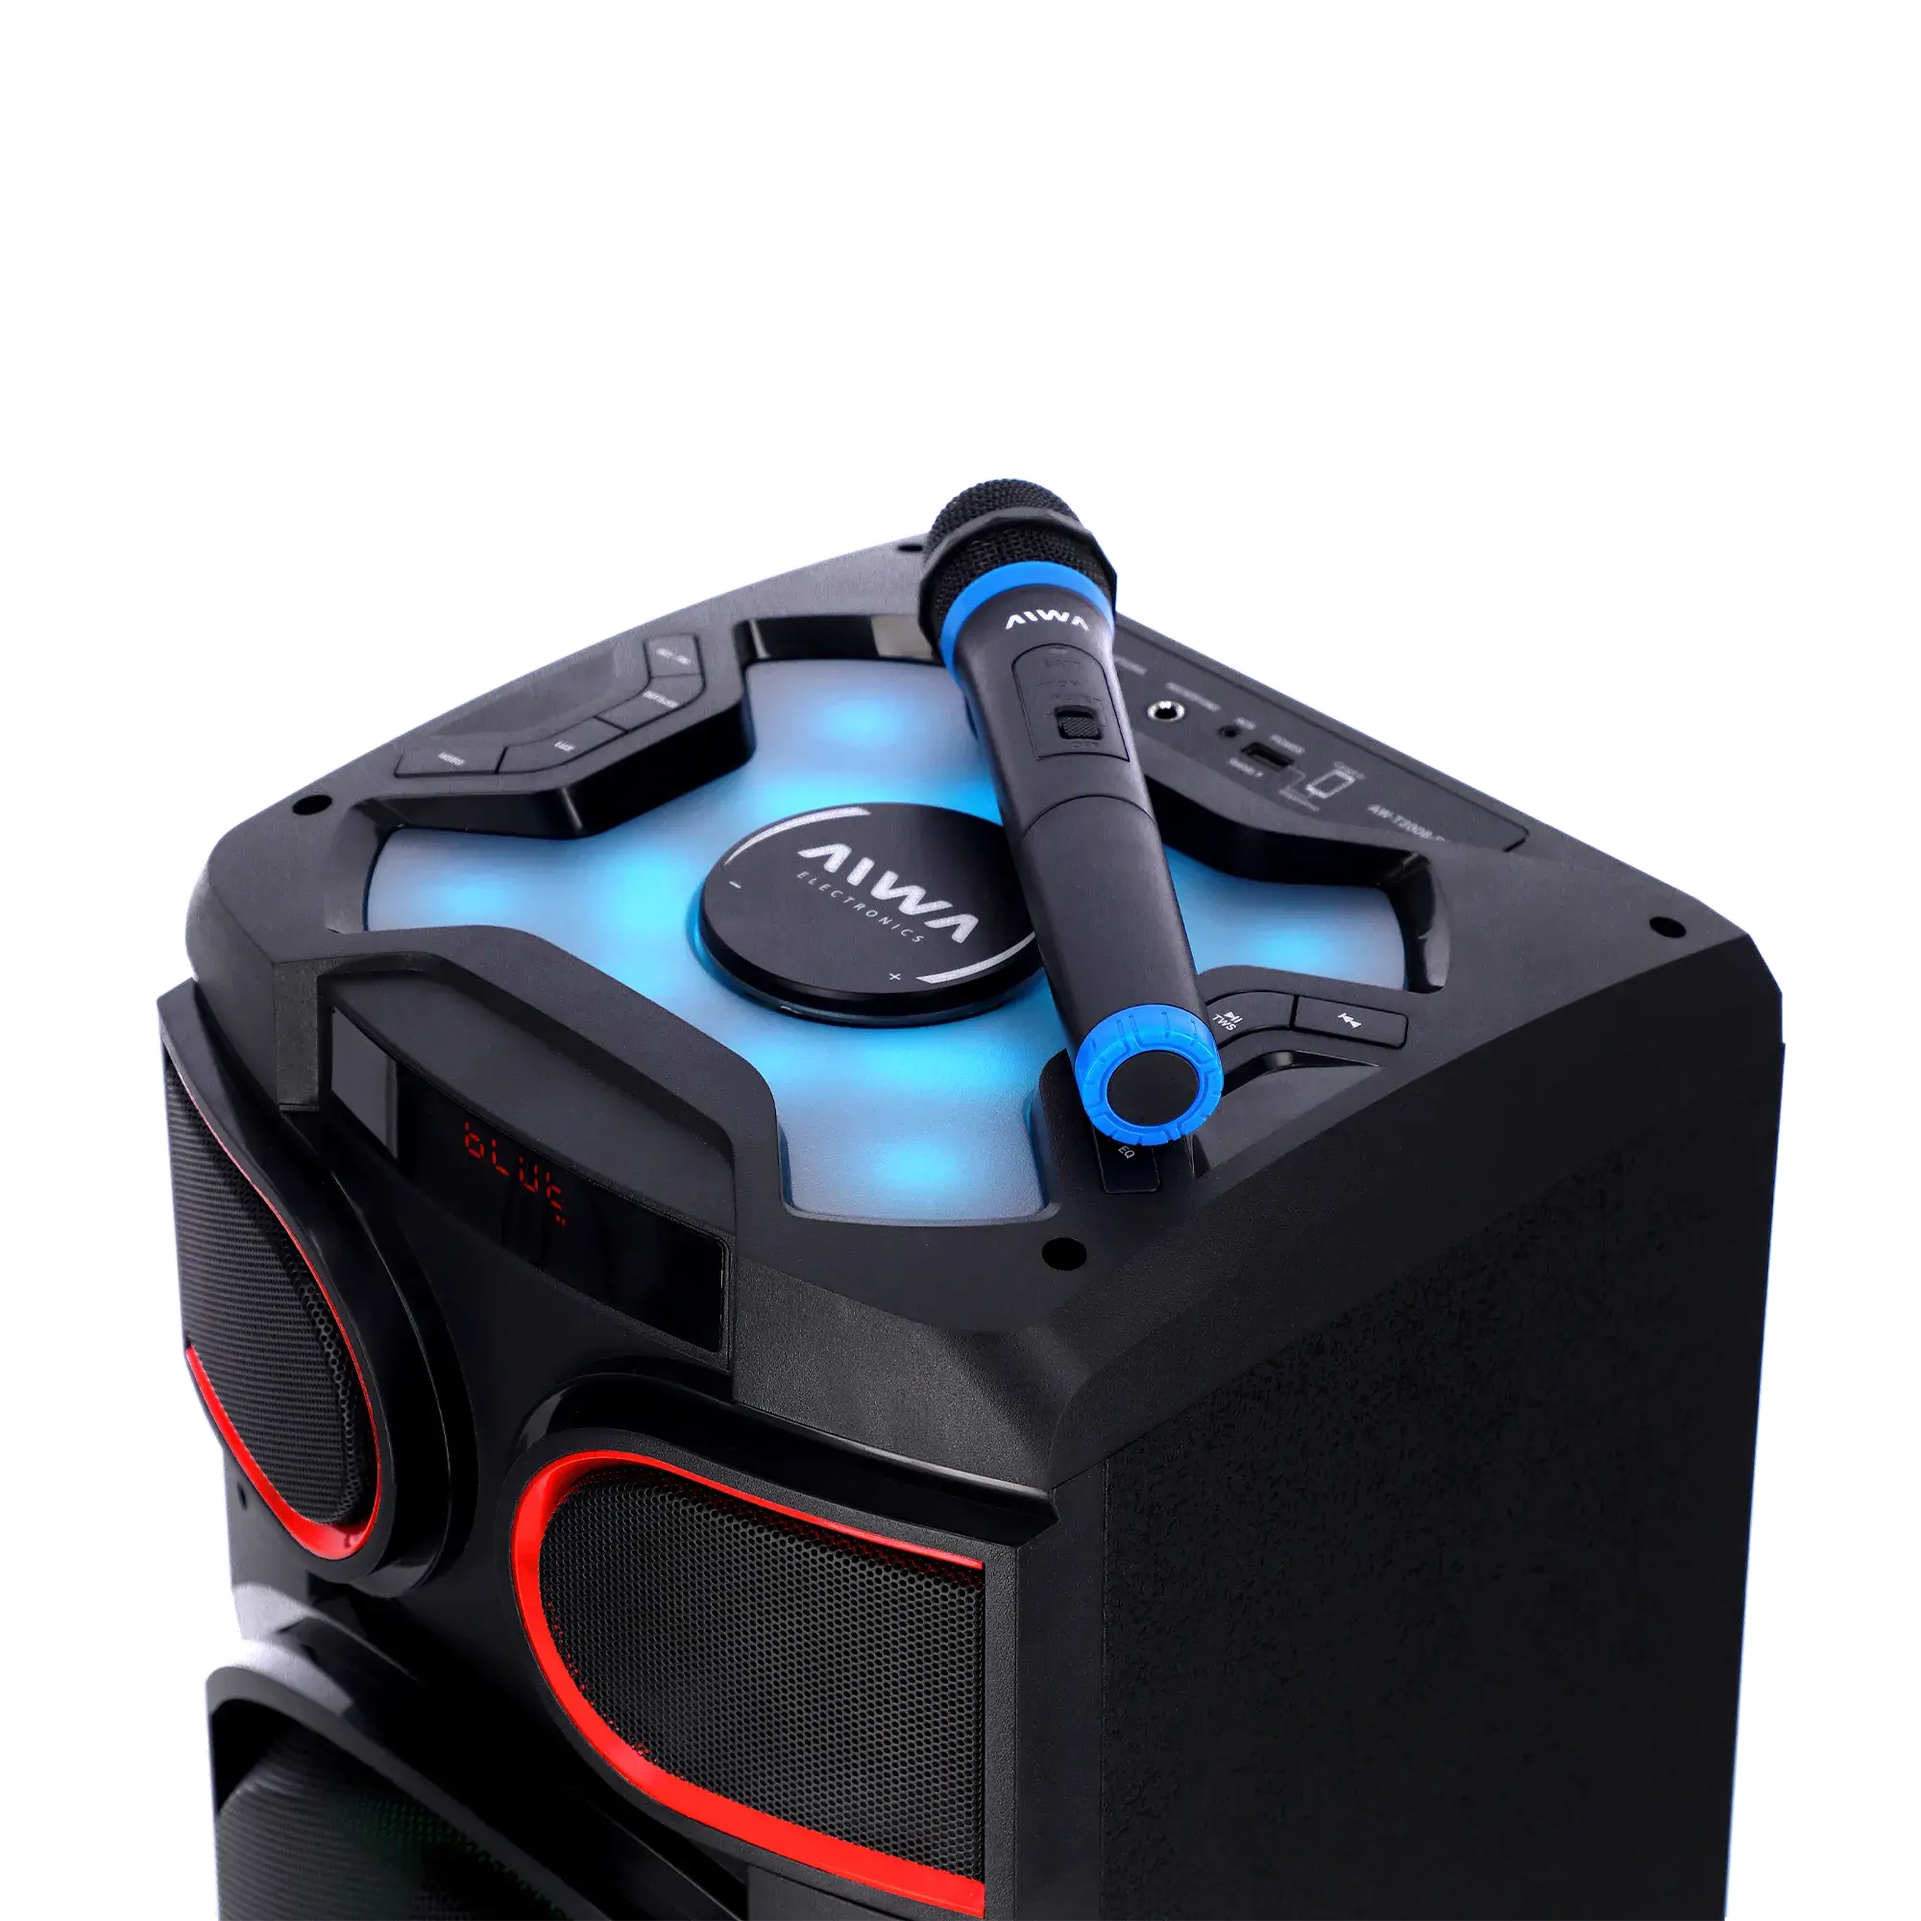
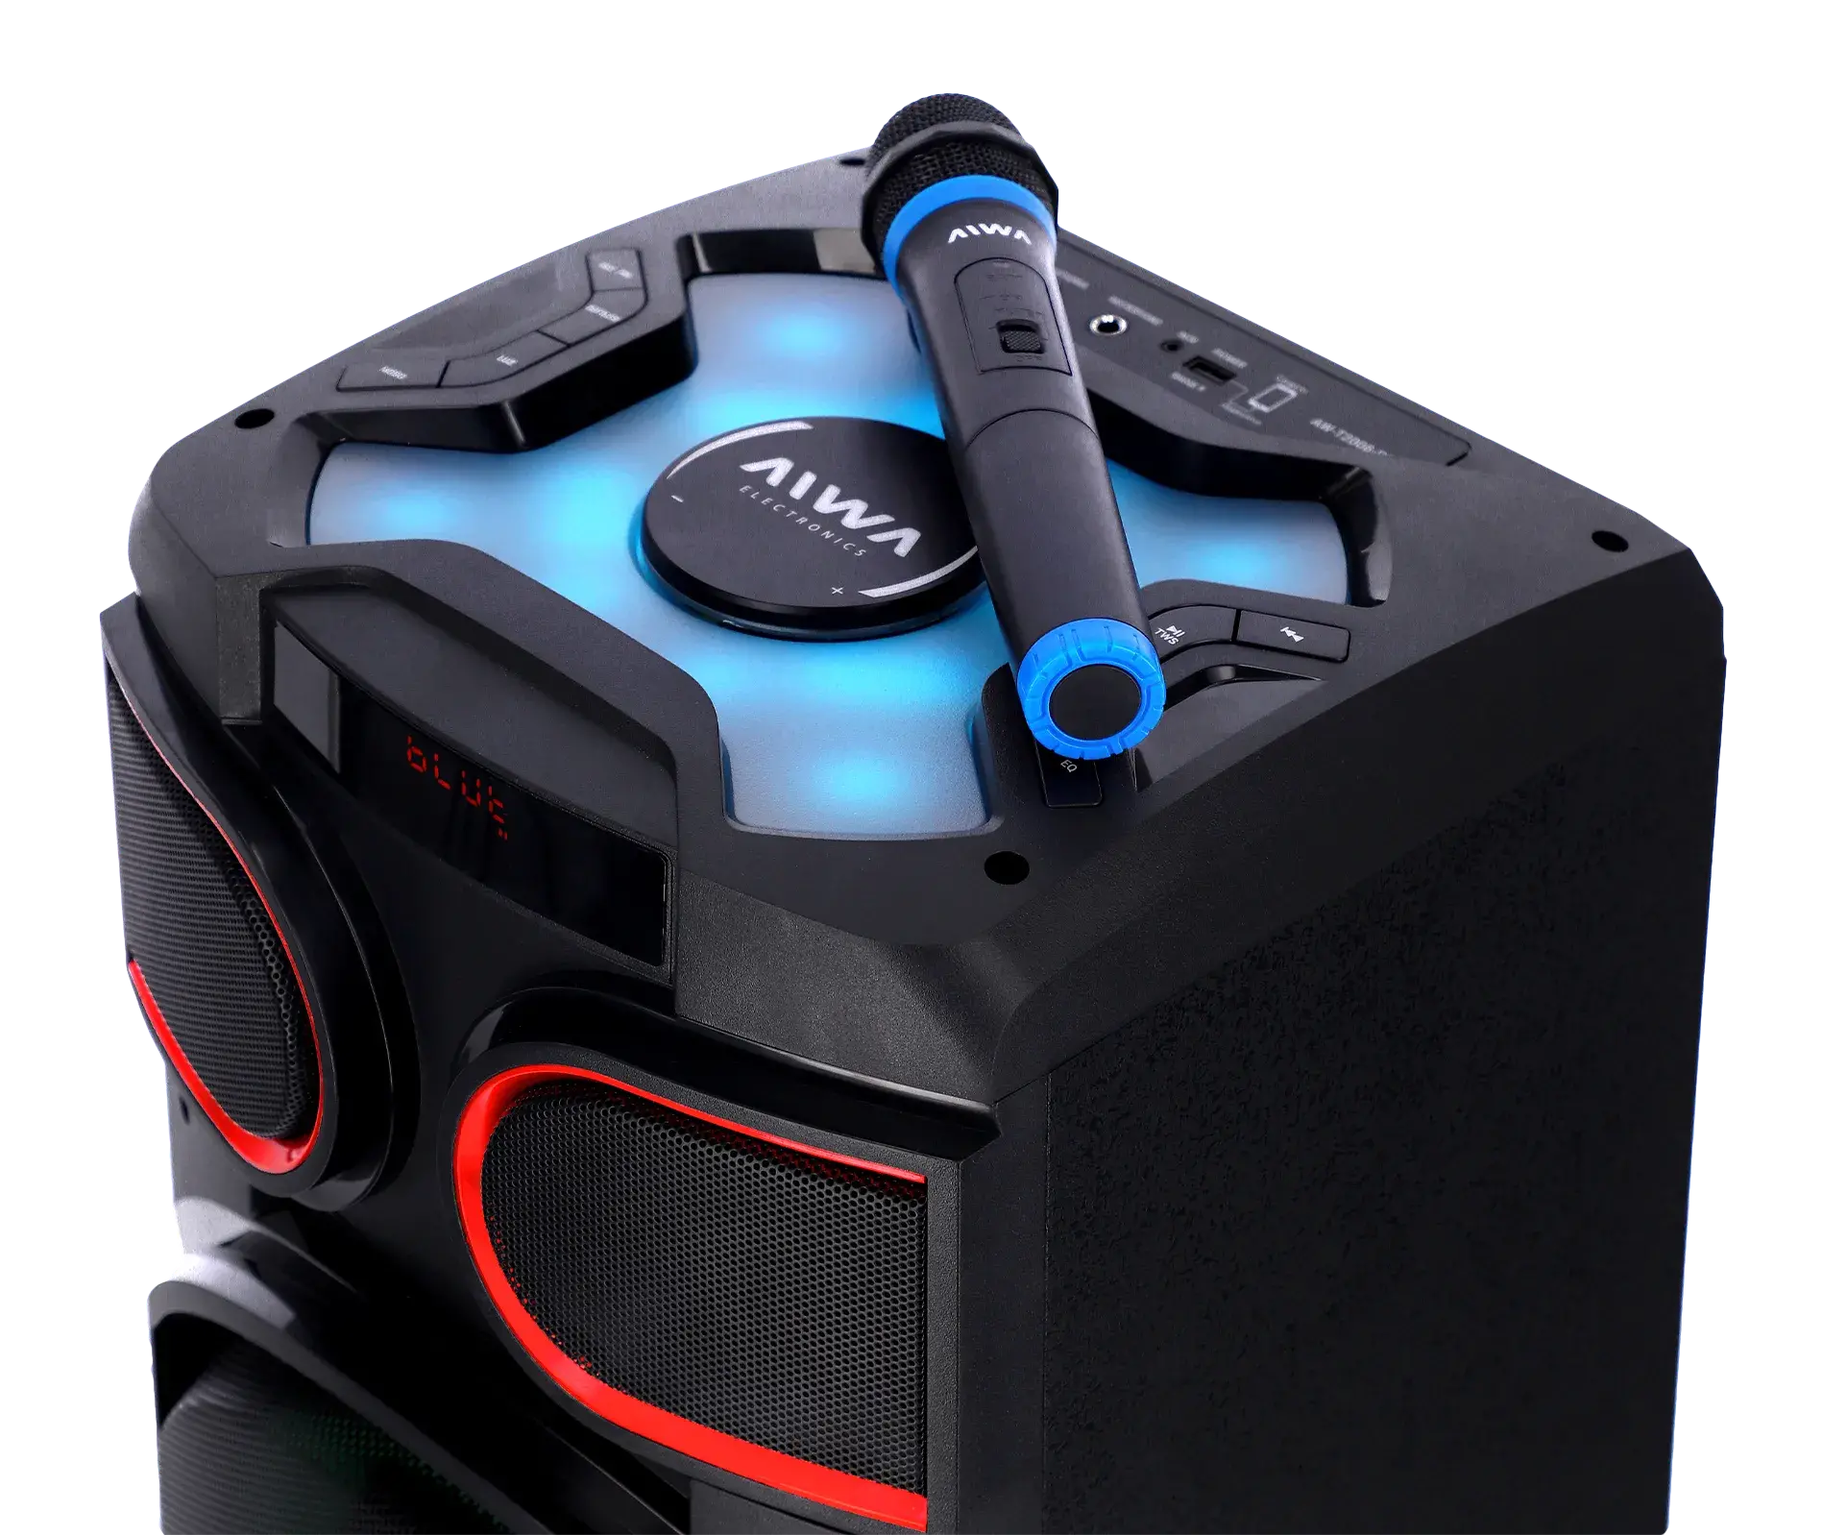
tweaks product page

diff --git a/pages/productos/[prod].js b/pages/productos/[prod].js
@@ -21,14 +21,14 @@ export default function Producto(){
             <h4>{selectedProduct.longDesc}</h4>
           </div>
           <div className='product-photo'>
-            <Image src={`/products/${prod}/img/cover.webp`} width='500px' height='500px'/>
+            <img src={`/products/${prod}/img/cover.webp`} alt={selectedProduct.sku}/>
           </div>
           <div className='product-buttons'>
             <button className='video-360'>
               <img className='logo-360' src='/360-logo.svg' alt='360-logo'/>
               <video width="145" height="145" autoPlay muted loop>
                 <source src={`/products/${prod}/360-video/150.mp4`} type="video/mp4"/>
-              Tu navegador no tiene soporte para ver videos.
+                Tu navegador no tiene soporte para ver videos.
               </video>
             </button>
             <Link href='/buscar'><a><ImageIcon/>MÁS FOTOS</a></Link>

diff --git a/styles/_page_productos.scss b/styles/_page_productos.scss
@@ -29,7 +29,10 @@ section.product-page {
       flex-grow: 1; 
       text-align: center;
       margin-bottom: 1px;
-      @include flex(row, center, flex-end)
+      @include flex(row, center, flex-end);
+      img {
+        max-width: 600px;
+      }
     }
     div.product-buttons {
       position: relative;
